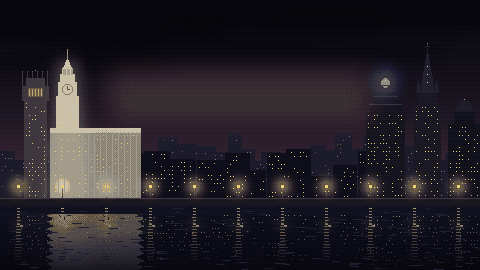
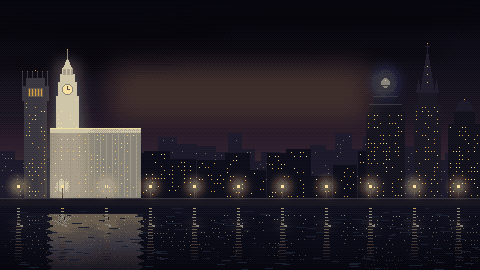
Art deco title plate; drop CHICAGO 1927 subtitle
Hand-drawn condensed deco letterforms with a gold gradient on a stepped
ziggurat plate with sunburst and speed lines, drawn crisply over the
pixelised skyline. Window golds pinned in the background palette.

Copilot-Session: 52f03ab8-4299-449f-b7f6-c64e574c6b2e

diff --git a/tools/art/ui.py b/tools/art/ui.py
@@ -133,10 +133,107 @@ def clamp_px(v):
     return 255 if v > 255 else int(v)
 
 
-TITLE_PLATE = (110, 70, 370, 120)
+TITLE_PLATE = (112, 64, 368, 118)
+# ziggurat plate: base, middle step, top step (x0, x1, top y); all share the base's bottom edge
+_PLATE_STEPS = ((112, 368, 80), (176, 304, 72), (208, 272, 64))
+_GW, _GH = 12, 22  # deco letter cell
 
 
-def _title_paint(logo):
+def _glyph(ch):
+    """Condensed Broadway-style capitals: heavy stems, hairline bars, high waist. Returns 22 rows of '#'/'.'."""
+    if ch == "E":
+        rows = ["#" * 12] * 2 + ["####" + "." * 8] * 5 + ["#########..."] + ["####" + "." * 8] * 12 + ["#" * 12] * 2
+    elif ch in "PR":
+        bowl = ["##########..", "###########."] + ["####....####"] * 4 + ["###########.", "##########.."]
+        if ch == "P":
+            rows = bowl + ["####" + "." * 8] * 14
+        else:
+            rows = bowl
+            for i in range(14):
+                s = 4 + round(4 * i / 13)
+                r = ["#" if x < 4 or s <= x < s + 4 else "." for x in range(12)]
+                rows.append("".join(r))
+    elif ch == "N":
+        rows = []
+        for y in range(22):
+            s = round(2 + 6 * y / 21)
+            rows.append("".join("#" if x < 2 or x >= 10 or s <= x < s + 4 else "." for x in range(12)))
+    elif ch == "T":
+        rows = ["#" * 12] * 2 + ["....####...."] * 20
+    elif ch == "A":
+        rows = []
+        for y in range(22):
+            left, right = round(5 - 5 * y / 21), round(6 + 5 * y / 21)
+            r = ["."] * 12
+            for x in range(left, left + 2):
+                r[x] = "#"
+            for x in range(max(left, right - 3), right + 1):
+                r[x] = "#"
+            if y == 14:
+                for x in range(left, right + 1):
+                    r[x] = "#"
+            rows.append("".join(r))
+    elif ch == "C":
+        rows = (["..##########", ".###########"] + ["####......##"] * 2 + ["####" + "." * 8] * 14 +
+                ["####......##"] * 2 + [".###########", "..##########"])
+    else:
+        raise ValueError(ch)
+    assert len(rows) == _GH and all(len(r) == _GW for r in rows), ch
+    return rows
+
+
+_GOLD_ROWS = [hx("f8e8b0")] * 4 + [hx("f0d080")] * 4 + [hx("e0b850")] * 5 + [hx("c89838")] * 5 + [hx("a07028")] * 4
+
+
+def _deco_word(img, s, cx, top, gap=6):
+    width = len(s) * _GW + (len(s) - 1) * gap
+    x0 = cx - width // 2
+    px = img.load()
+    for i, ch in enumerate(s):
+        for y, row in enumerate(_glyph(ch)):
+            for x, c in enumerate(row):
+                if c == "#":
+                    # a dark drop shadow, then the gold letter
+                    sx, sy = x0 + i * (_GW + gap) + x, top + y
+                    if px[sx + 1, sy + 1][3] == 255 and px[sx + 1, sy + 1][:3] == hx("0e0a10"):
+                        px[sx + 1, sy + 1] = hx("2a1808", 255)
+                    px[sx, sy] = _GOLD_ROWS[y] + (255,)
+    return x0, x0 + width
+
+
+def _plate_outline(inset):
+    (bx0, bx1, by0), (mx0, mx1, my0), (tx0, tx1, ty0) = _PLATE_STEPS
+    by1, i = TITLE_PLATE[3], inset
+    return [(bx0 + i, by1 - i), (bx0 + i, by0 + i), (mx0 + i, by0 + i), (mx0 + i, my0 + i), (tx0 + i, my0 + i),
+            (tx0 + i, ty0 + i), (tx1 - i, ty0 + i), (tx1 - i, my0 + i), (mx1 - i, my0 + i), (mx1 - i, by0 + i),
+            (bx1 - i, by0 + i), (bx1 - i, by1 - i)]
+
+
+def _title_plate():
+    """Art deco nameplate drawn crisply over the pixelised background: stepped ziggurat, sunburst, speed lines."""
+    plate = Image.new("RGBA", (480, 270))
+    d = ImageDraw.Draw(plate)
+    ink, gold, gold_d = hx("0e0a10", 255), hx("c8a040", 255), hx("6a5020", 255)
+    d.polygon(_plate_outline(0), fill=ink, outline=gold)
+    d.polygon(_plate_outline(3), outline=gold_d)
+    # sunburst rising from behind the word into the top step
+    cx, cy = 240, 87
+    sunburst(d, cx, cy, 18, 14, hx("4a3818", 255), ink)
+    d.arc([cx - 18, cy - 18, cx + 18, cy + 18], 180, 360, fill=gold_d)
+    d.pieslice([cx - 5, cy - 5, cx + 5, cy + 5], 180, 360, fill=gold)
+    d.rectangle([cx - 20, cy, cx + 20, cy + 1], fill=ink)
+    w0, w1 = _deco_word(plate, "REPENTANCE", 240, 90)
+    # streamline speed lines either side of the word
+    for k, (y, n) in enumerate(((96, 22), (100, 16), (104, 10))):
+        col = gold if k == 1 else gold_d
+        d.line([(w0 - 6 - n, y), (w0 - 6, y)], fill=col)
+        d.line([(w1 + 5, y), (w1 + 5 + n, y)], fill=col)
+    # a hairline under the word
+    d.line([(w0, 114), (w1 - 1, 114)], fill=gold_d)
+    return plate
+
+
+def _title_paint():
     img = Image.new("RGB", (480, 270))
     vgrad(img, (0, 0, 479, 200), hx("05060e"), hx("2e1e34"))
     for cx, cy, rx, ry in ((90, 30, 140, 14), (330, 18, 170, 12), (250, 52, 200, 10), (60, 64, 120, 8)):
@@ -158,35 +255,18 @@ def _title_paint(logo):
     for w, y in ((16, 104), (12, 96), (8, 90), (5, 85)):
         d.line([(385 - w, y), (385 + w, y)], fill=hx("34345a"))
     light(img, "rect", list(TITLE_PLATE), hx("e0a040"), 0.2, 12)
-    if logo:
-        d = ImageDraw.Draw(img)
-        x0, y0, x1, y1 = TITLE_PLATE
-        d.rectangle([x0, y0, x1, y1], fill=hx("0e0a10"))
-        d.rectangle([x0 + 4, y0 + 4, x1 - 4, y1 - 4], outline=hx("c8a040"))
-        d.rectangle([x0 + 8, y0 + 8, x1 - 8, y1 - 8], outline=hx("6a5020"))
-        text(img, (240, 95), "REPENTANCE", hx("e8c860"), size=24)
-        text(img, (240, 132), "CHICAGO  1927", hx("c8b088"), size=8)
     vignette(img, 0.7)
     return img
 
 
 def title():
-    """Background without rain (Hud animates it with a Rain node) and the gold plate drawn over the rain."""
-    plain, logo = _title_paint(False), _title_paint(True)
-    pal = palette_of(logo, 96)
-    bg, fg = pixelize(plain, pal), pixelize(logo, pal)
+    """Background without rain (Hud animates it with a Rain node) and the deco plate drawn over the rain."""
+    plain, plate = _title_paint(), _title_plate()
+    # keep the window and lamp golds exact; median cut alone washes them towards white
+    pal = palette_of(plain, 96) + [hx("e8c060"), hx("d8a040"), hx("f0e0a0"), hx("f8e0a0")]
+    bg = pixelize(plain, pal)
     save(bg, "ui", "title.png")
-    x0, y0, x1, y1 = TITLE_PLATE
-    mask = Image.new("L", bg.size, 0)
-    ImageDraw.Draw(mask).rectangle([x0, y0, x1, y1], fill=255)
-    # the subtitle letters are the only other pixels the logo pass changed
-    diff = ImageChops.difference(bg, fg).convert("L").point(lambda v: 255 if v > 0 else 0)
-    sub = Image.new("L", bg.size, 0)
-    sub.paste(diff.crop((150, 124, 330, 140)), (150, 124))
-    mask = ImageChops.lighter(mask, sub)
-    out = fg.convert("RGBA")
-    out.putalpha(mask)
-    save(out, "ui", "title_logo.png")
+    save(plate, "ui", "title_logo.png")
 
 
 def _icon(fn, size=24):
